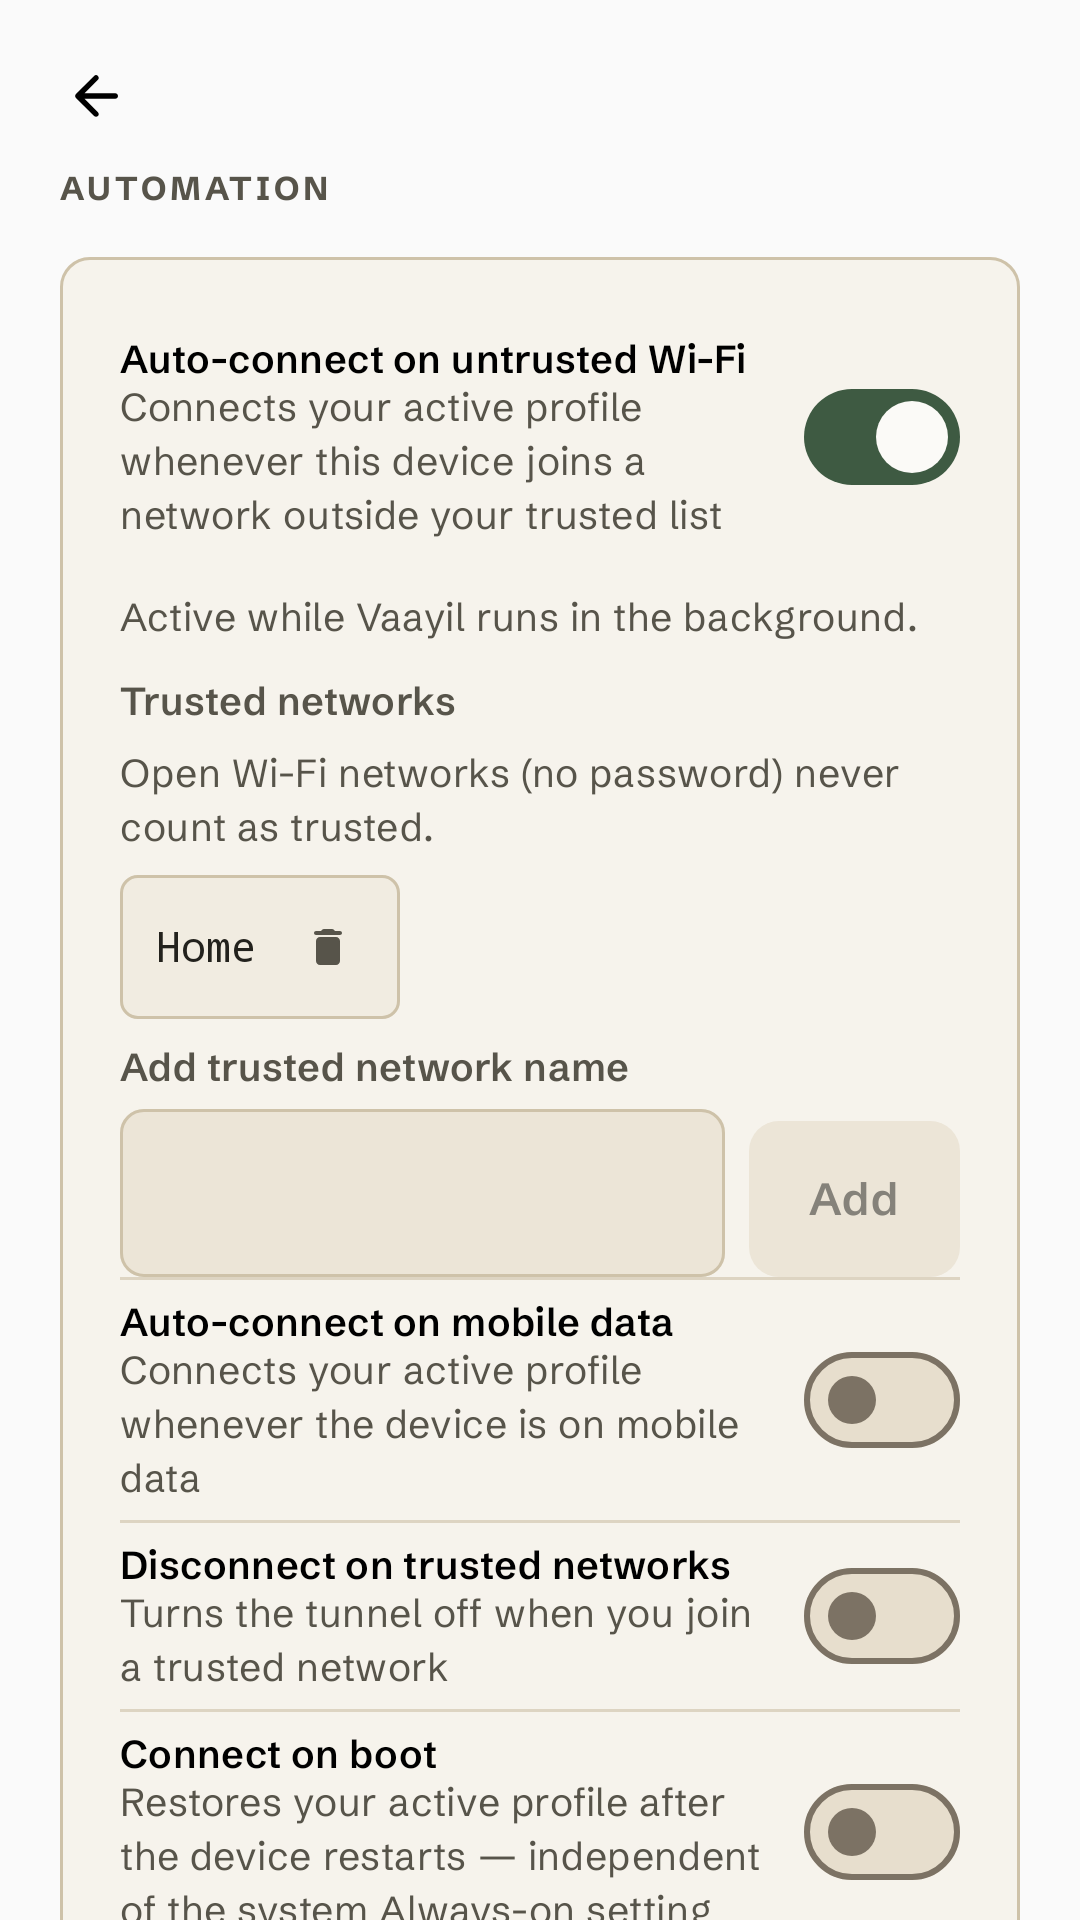
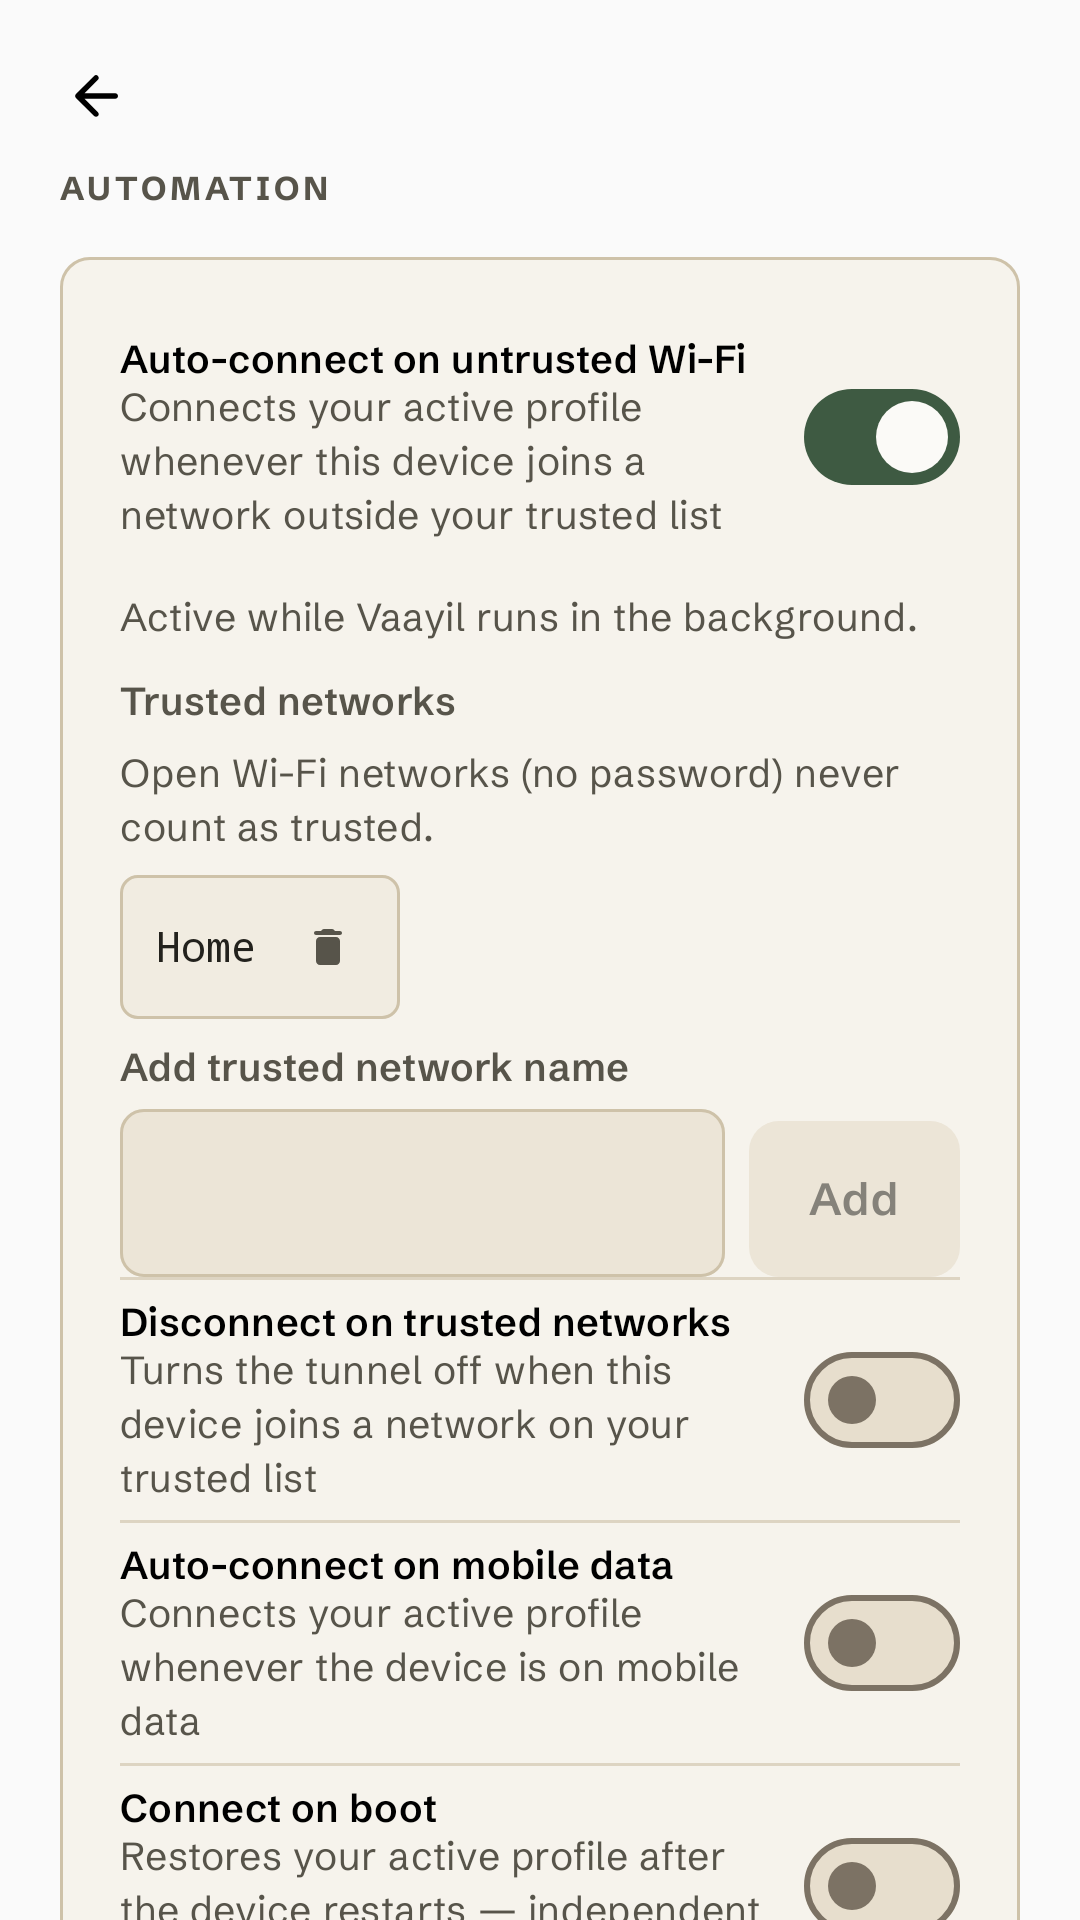
fix: show Disconnect on trusted networks with its Wi-Fi rule (y8)

Changed region(s): [[0.0917, 0.8125, 0.7028, 1.0], [0.0917, 0.6562, 0.6722, 0.7812], [0.7333, 0.8125, 0.8861, 1.0]]

diff --git a/feature/settings/src/testDebug/kotlin/dev/vaayil/feature/settings/SettingsLocationCardTest.kt b/feature/settings/src/testDebug/kotlin/dev/vaayil/feature/settings/SettingsLocationCardTest.kt
@@ -2,6 +2,7 @@ package dev.vaayil.feature.settings
 
 import android.app.Application
 import androidx.compose.ui.test.assertIsDisplayed
+import androidx.compose.ui.test.getUnclippedBoundsInRoot
 import androidx.compose.ui.test.junit4.createComposeRule
 import androidx.compose.ui.test.onAllNodesWithText
 import androidx.compose.ui.test.onNodeWithText
@@ -23,12 +24,17 @@ class SettingsLocationCardTest {
     @get:Rule
     val compose = createComposeRule()
 
-    private fun screen(permission: PermissionState, onOpenLocationSettings: () -> Unit) {
+    private fun screen(
+        permission: PermissionState,
+        rules: AutoConnectRules = AutoConnectRules(wifiGuardEnabled = true),
+        onDisconnectOnTrusted: () -> Unit = {},
+        onOpenLocationSettings: () -> Unit = {},
+    ) {
         compose.setContent {
             SettingsScreen(
                 ui = SettingsFlags(),
                 automation = AutomationUiState(
-                    rules = AutoConnectRules(wifiGuardEnabled = true),
+                    rules = rules,
                     permissionState = permission,
                 ),
                 appVersion = "1.0.0",
@@ -40,7 +46,7 @@ class SettingsLocationCardTest {
                 onOpenAppLicense = {},
                 onWifiGuard = {},
                 onAutoConnectOnMobileData = {},
-                onDisconnectOnTrusted = {},
+                onDisconnectOnTrusted = { onDisconnectOnTrusted() },
                 onConnectOnBoot = {},
                 onAddTrustedSsid = {},
                 onRemoveTrustedSsid = {},
@@ -49,6 +55,44 @@ class SettingsLocationCardTest {
                 onOpenLocationSettings = onOpenLocationSettings,
             )
         }
+    }
+
+    @Test
+    fun `disconnect on trusted is hidden while the wifi rule is off`() {
+        screen(
+            PermissionState.GRANTED,
+            rules = AutoConnectRules(wifiGuardEnabled = false, disconnectOnTrusted = true),
+        )
+        compose.onNodeWithText("Disconnect on trusted networks").assertDoesNotExist()
+    }
+
+    @Test
+    fun `disconnect on trusted follows the trusted list`() {
+        var disconnects = 0
+        screen(
+            PermissionState.GRANTED,
+            rules = AutoConnectRules(wifiGuardEnabled = true, trustedSsids = setOf("Home")),
+            onDisconnectOnTrusted = { disconnects++ },
+        )
+        val row = compose.onNodeWithText("Disconnect on trusted networks").performScrollTo()
+        row.assertIsDisplayed()
+        compose.onNodeWithText(
+            "Turns the tunnel off when this device joins a network on your trusted list",
+        ).assertIsDisplayed()
+        val addBottom = compose.onNodeWithText("Add").getUnclippedBoundsInRoot().bottom
+        val rowTop = row.getUnclippedBoundsInRoot().top
+        val mobileTop = compose.onNodeWithText("Auto-connect on mobile data")
+            .getUnclippedBoundsInRoot().top
+        assertTrue(
+            "the row sits below the trusted-list editor (rowTop=$rowTop, addBottom=$addBottom)",
+            rowTop >= addBottom,
+        )
+        assertTrue(
+            "the row sits above the mobile-data rule (rowTop=$rowTop, mobileTop=$mobileTop)",
+            rowTop < mobileTop,
+        )
+        row.performClick()
+        assertEquals(1, disconnects)
     }
 
     @Test

diff --git a/feature/settings/src/main/kotlin/dev/vaayil/feature/settings/SettingsScreen.kt b/feature/settings/src/main/kotlin/dev/vaayil/feature/settings/SettingsScreen.kt
@@ -198,6 +198,13 @@ fun SettingsScreen(
                         onRemove = onRemoveTrustedSsid,
                         modifier = Modifier.padding(top = 12.dp),
                     )
+                    RowDivider(inset = 0.dp)
+                    SwitchRow(
+                        title = "Disconnect on trusted networks",
+                        supporting = "Turns the tunnel off when this device joins a network on your trusted list",
+                        checked = automation.rules.disconnectOnTrusted,
+                        onChecked = onDisconnectOnTrusted,
+                    )
                 }
                 RowDivider(inset = 0.dp)
                 SwitchRow(
@@ -205,13 +212,6 @@ fun SettingsScreen(
                     supporting = "Connects your active profile whenever the device is on mobile data",
                     checked = automation.rules.autoConnectOnMobileData,
                     onChecked = onAutoConnectOnMobileData,
-                )
-                RowDivider(inset = 0.dp)
-                SwitchRow(
-                    title = "Disconnect on trusted networks",
-                    supporting = "Turns the tunnel off when you join a trusted network",
-                    checked = automation.rules.disconnectOnTrusted,
-                    onChecked = onDisconnectOnTrusted,
                 )
                 RowDivider(inset = 0.dp)
                 SwitchRow(
